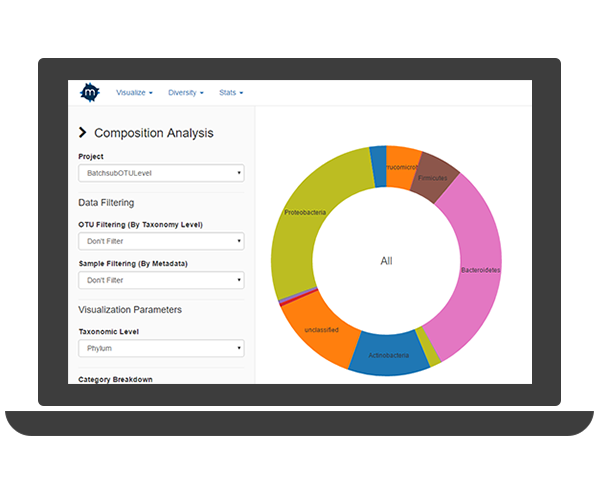
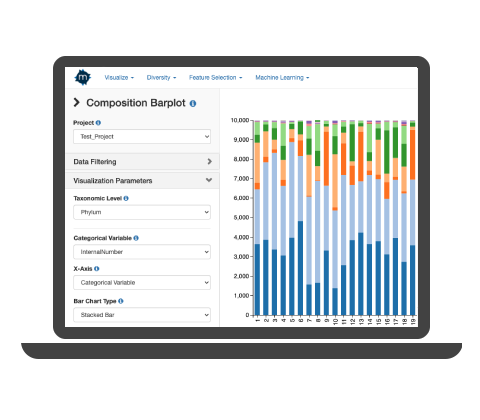
Updated screenshot. alpha to beta

diff --git a/mian/templates/index.html b/mian/templates/index.html
@@ -8,7 +8,7 @@
   <body>
 
     <div class="alert alert-warning">
-        <strong>Thanks for stopping by!</strong> Mian is still undergoing alpha testing so you may run into some bugs. You can help make Mian better by filing issues in <a href="https://github.com/tbj128/mian/issues" target="_blank">our Github repo</a> or by <a href="mailto:tom.jin@outlook.com" target="_blank">emailing us here</a>.
+        <strong>Thanks for stopping by!</strong> Mian is still undergoing beta testing so you may run into some bugs. You can help make Mian better by filing issues in <a href="https://github.com/tbj128/mian/issues" target="_blank">our Github repo</a> or by <a href="mailto:tom.jin@outlook.com" target="_blank">emailing us here</a>.
     </div>
     <div id="ie-warning" class="alert alert-danger" style="display:none;">
         <strong>Internet Explorer Not Supported</strong> Mian works best on Chrome, Safari, or Firefox. Some features may not be available on Internet Explorer.
@@ -25,7 +25,7 @@
         <div class="row">
           <div class="col-md-6">
             <h1 style="font-size:48px;margin-top:128px;margin-bottom:24px;">Meet <strong>Mian</strong></h1>
-            <h4 style="color:#D4F5FF;line-height:26px;">A new way to visualize and analyse the microbiome in your browser. Built by the research community for the research community.</h4>
+            <h4 style="color:#D4F5FF;line-height:26px;">A new way to visualize, analyse, and train machine learning models on the microbiome. Built by the research community for the research community.</h4>
             <br /><br />
             <p>
               <a href="signup" class="btn btn-default btn-lg">&nbsp;&nbsp;Signup&nbsp;&nbsp;</a>
@@ -66,8 +66,8 @@
                   <div class="icon">
                       <i class="fa fa-table fa-4x"></i>
                   </div>
-                  <h4>Data Mining</h4>
-                  <p>Quickly run basic data mining packages like elastic net, Fisher's exact test, and more.</p>
+                  <h4>Machine Learning</h4>
+                  <p>Run feature selection algorithms like Boruta and train machine learning models like linear regression or deep neural networks.</p>
               </div>
           </div>
           <div class="col-md-3 col-sm-6">

diff --git a/mian/templates/create.html b/mian/templates/create.html
@@ -7,7 +7,7 @@
 
   <body>
     <div class="alert alert-warning">
-        <strong>Thanks for stopping by!</strong> Mian is still undergoing alpha testing so you may run into some bugs. You can help make Mian better by filing issues in <a href="https://github.com/tbj128/mian/issues" target="_blank">our Github repo</a> or by <a href="mailto:tom.jin@outlook.com" target="_blank">emailing us here</a>.
+        <strong>Thanks for stopping by!</strong> Mian is still undergoing beta testing so you may run into some bugs. You can help make Mian better by filing issues in <a href="https://github.com/tbj128/mian/issues" target="_blank">our Github repo</a> or by <a href="mailto:tom.jin@outlook.com" target="_blank">emailing us here</a>.
     </div>
     {% include 'navigation.html' %}
     {% include 'loading-bar-processing.html' %}

diff --git a/mian/templates/projects.html b/mian/templates/projects.html
@@ -32,7 +32,7 @@
   <body>
 
     <div class="alert alert-warning">
-      <strong>Thanks for stopping by!</strong> Mian is still undergoing alpha testing so you may run into some bugs. You can help make Mian better by filing issues in <a href="https://github.com/tbj128/mian/issues" target="_blank">our Github repo</a> or by <a href="mailto:tom.jin@outlook.com" target="_blank">emailing us here</a>.
+      <strong>Thanks for stopping by!</strong> Mian is still undergoing beta testing so you may run into some bugs. You can help make Mian better by filing issues in <a href="https://github.com/tbj128/mian/issues" target="_blank">our Github repo</a> or by <a href="mailto:tom.jin@outlook.com" target="_blank">emailing us here</a>.
     </div>
 
     <div id="ie-warning" class="alert alert-danger" style="display:none;">
